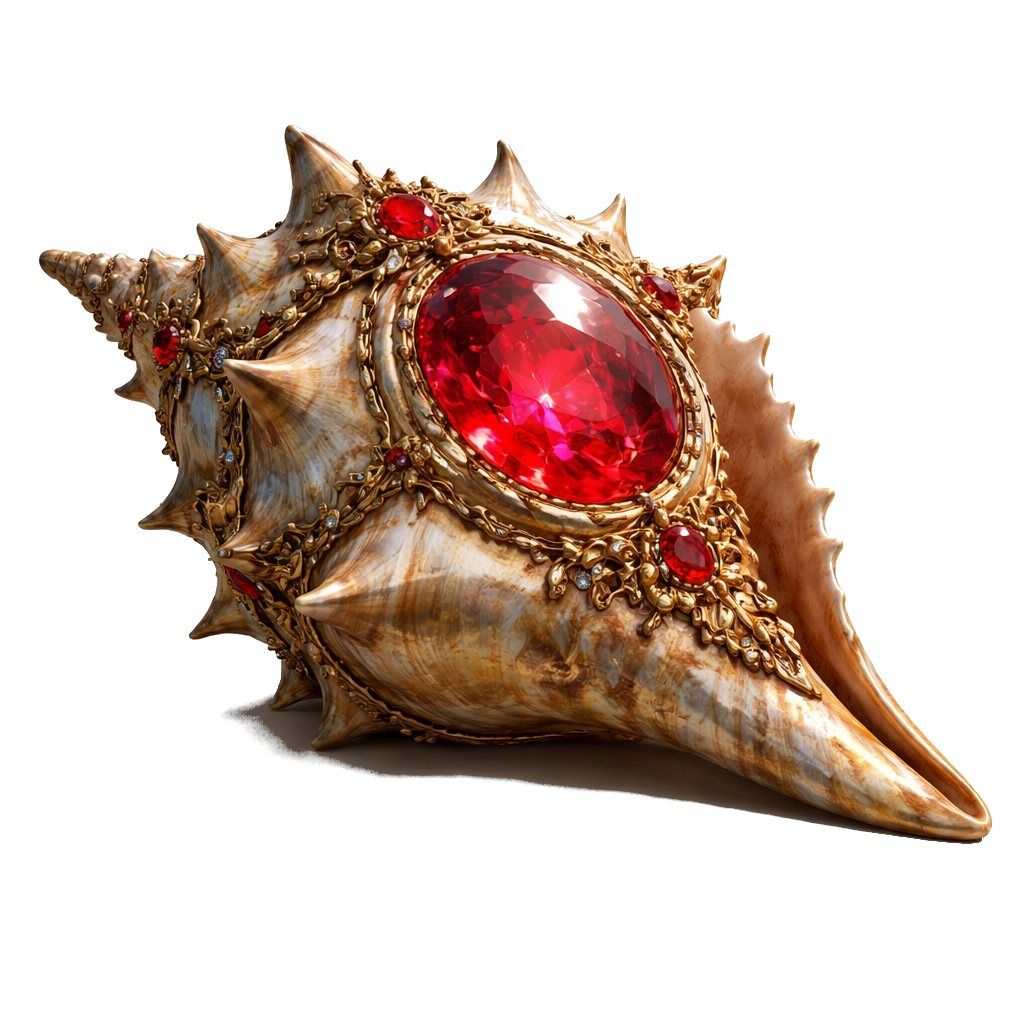
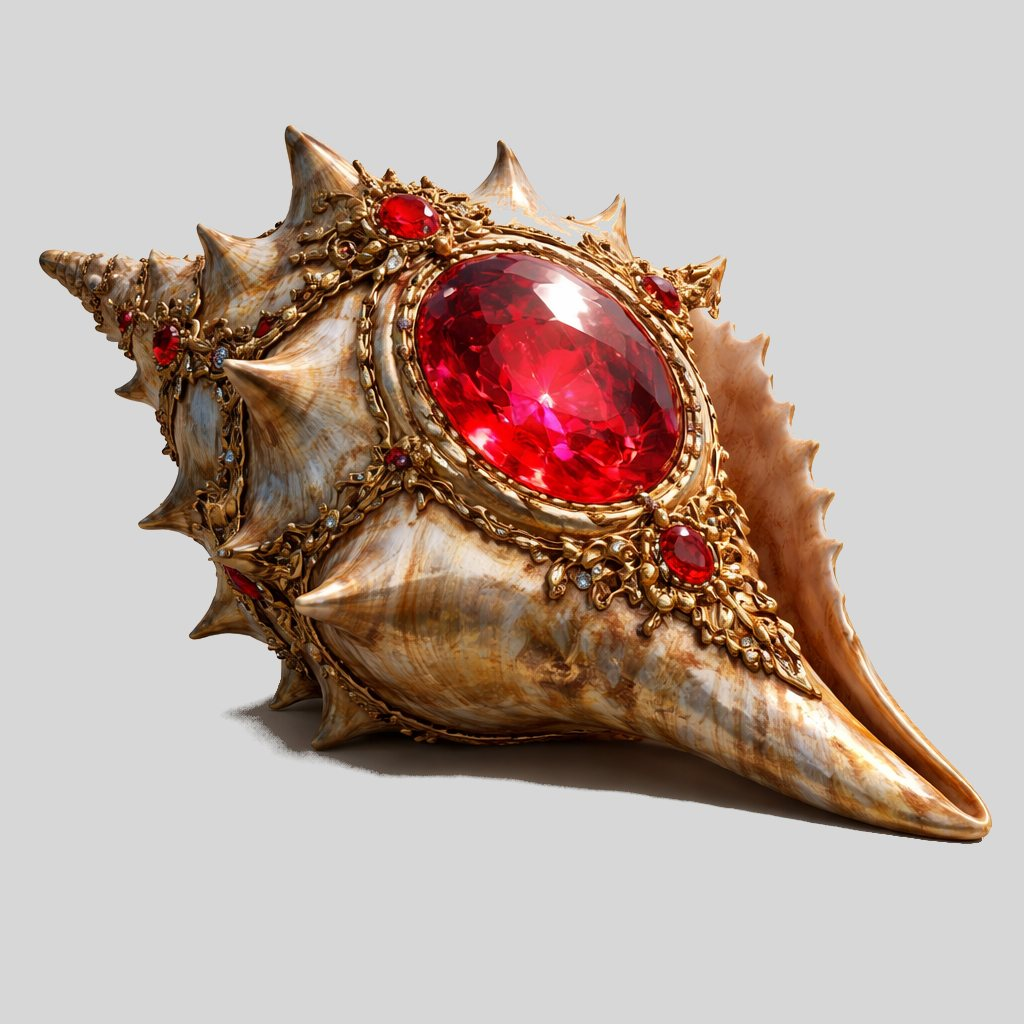
Images transparentes sur fond gris

diff --git a/journal-arc-1.html b/journal-arc-1.html
@@ -25,7 +25,7 @@
 <p class="arc-date">Automne 1002 CR</p><figure class="inline wide"><a href="img/inline-silenna.jpg?v=5eb2e386"><img src="img/inline-silenna.jpg?v=5eb2e386" alt="Silenna, la sorcière rouge" title="Silenna, la sorcière rouge" loading="lazy"></a><figcaption>Silenna, la sorcière rouge</figcaption></figure><p>Tout commence à <a class="auto" href="carte-bourg-preux.html">Bourg-Preux</a>. <a class="auto" href="heros-zolbrour.html">Zolbrour</a>, <a class="auto" href="heros-aldaron.html">Aldaron</a> et <a class="auto" href="heros-azog.html">Azog</a> rencontrent la sorcière rouge <a class="auto" href="pnj-silenna.html">Silenna</a>, qui les aide à terrasser une strige dans les quartiers Sud. Peu après, <a class="auto" href="heros-zolbrour.html">Zolbrour</a> quitte le groupe pour poursuivre d'autres chimères. <a class="auto" href="pnj-silenna.html">Silenna</a>, elle, vole la Conque de Khêl dans le <a class="auto" href="lieux-bp-temple-deesse-douce.html">temple de la Déesse Douce</a>. Cette conque avait servi à l'archonte <a class="auto" href="pnj-cloaphiles.html">Cloaphilès</a> pour ranimer une armée de morts, lors de la bataille de <a class="auto" href="carte-chrysophee.html">Chrysophée</a>.</p>
 <p>À l'automne 1002 CR, <a class="auto" href="heros-azog.html">Azog</a> et <a class="auto" href="heros-aldaron.html">Aldaron</a> se font un nom en ville. Pendant la fête du Bain de la Déesse, <a class="auto" href="pnj-spada-rapazzoni.html">Spada Rapazzoni</a>, fils du sénateur <a class="auto" href="pnj-guido-rapazzoni.html">Guido Rapazzoni</a> de <a class="auto" href="lieux-ciudalia.html">Ciudalia</a>, est enlevé par le maître-espion <a class="auto" href="pnj-rosso-dagarella.html">Rosso Dagarella</a> pour le compte du parti belliciste. Poursuivi par les héros et par le guet, <a class="auto" href="pnj-rosso-dagarella.html">Rosso Dagarella</a> se cache avec <a class="auto" href="pnj-spada-rapazzoni.html">Spada</a> dans une vinerie, où a lieu un combat épique. <a class="auto" href="pnj-spada-rapazzoni.html">Spada</a> est délivré, mais Rosso s'enfuit. En remerciement, <a class="auto" href="pnj-spada-rapazzoni.html">Spada</a> remet aux héros une lettre de recommandation auprès de son père.</p>
 <p>Puis, à la fin de l'automne, le Bailli <a class="auto" href="pnj-papelin.html">Grugeot Papelin</a> leur demande d'enquêter sur des brigands payés en dirhems de <a class="auto" href="lieux-ressine.html">Ressine</a> pour attaquer les marchands ciudaliens. Les héros tuent le corsaire <a class="auto" href="pnj-urion-bravache.html">Urion Bravache</a> et ses Écorcheurs, le brigand <a class="auto" href="pnj-chicot.html">Chicot l'Ébréché</a> et ses tire-laine, puis les rats-garous <a class="auto" href="pnj-carognet.html">Carognet</a> et <a class="auto" href="pnj-musard.html">Musard</a>. Grâce à eux, le guet arrête le flibustier <a class="auto" href="pnj-borel.html">Borel l'Écumeur</a>, qui est enfermé dans la prison de <a class="auto" href="carte-bourg-preux.html">Bourg-Preux</a>. La piste remonte jusqu'au <a class="auto" href="pnj-brancovan.html">Voïvode Brancovan</a> de <a class="auto" href="lieux-rourika.html">Rourika</a>.</p>
-<p>Les héros découvrent alors que <a class="auto" href="pnj-brancovan.html">Brancovan</a> a servi d'intermédiaire dans le vol de la Conque, et que le commanditaire est l'archonte <a class="auto" href="pnj-cloaphiles.html">Cloaphilès</a>. La Conque est retrouvée et rendue au <a class="auto" href="lieux-bp-temple-deesse-douce.html">temple de la Déesse Douce</a>. Mais son plus gros rubis a été retiré. <a class="badge" href="quetes-gemmes-wayland.html">⚑ Les quatre gemmes de Wayland</a></p><div class="strip"><figure class="inline"><a href="img/inline-conque.jpg?v=5307b0b9"><img src="img/thumb-inline-conque.jpg?v=fbccd53f" alt="La Conque de Khêl" title="La Conque de Khêl" loading="lazy"></a><figcaption>La Conque de Khêl</figcaption></figure></div>
+<p>Les héros découvrent alors que <a class="auto" href="pnj-brancovan.html">Brancovan</a> a servi d'intermédiaire dans le vol de la Conque, et que le commanditaire est l'archonte <a class="auto" href="pnj-cloaphiles.html">Cloaphilès</a>. La Conque est retrouvée et rendue au <a class="auto" href="lieux-bp-temple-deesse-douce.html">temple de la Déesse Douce</a>. Mais son plus gros rubis a été retiré. <a class="badge" href="quetes-gemmes-wayland.html">⚑ Les quatre gemmes de Wayland</a></p><div class="strip"><figure class="inline"><a href="img/inline-conque.jpg?v=afc272a0"><img src="img/thumb-inline-conque.jpg?v=5c4cca44" alt="La Conque de Khêl" title="La Conque de Khêl" loading="lazy"></a><figcaption>La Conque de Khêl</figcaption></figure></div>
 <nav class="prev-next"><a href="journal.html">← Journal</a><span></span><a href="journal-arc-2.html">Arc 2 : L&#x27;archonte Cloaphilès →</a></nav>
 </main>
 </body>

diff --git a/chronologie.html b/chronologie.html
@@ -82,7 +82,7 @@
 <p>L'ordre suit le résumé des sessions. Dates exactes inconnues, sauf indication.</p>
 <ol>
 <li><div class="tl-text"><a class="auto" href="heros-zolbrour.html">Zolbrour</a>, <a class="auto" href="heros-aldaron.html">Aldaron</a> et <a class="auto" href="heros-azog.html">Azog</a> rencontrent <a class="auto" href="pnj-silenna.html">Silenna</a> et tuent une strige à <a class="auto" href="carte-bourg-preux.html">Bourg-Preux</a>. <a class="auto" href="heros-zolbrour.html">Zolbrour</a> quitte le groupe.</div><div class="tl-side"><a class="tl-thumb" href="img/inline-silenna.jpg?v=5eb2e386" title="Silenna, la sorcière rouge"><img src="img/thumb-inline-silenna.jpg?v=a669fcf1" alt="Silenna, la sorcière rouge" loading="lazy"></a></div></li>
-<li><div class="tl-text"><a class="auto" href="pnj-silenna.html">Silenna</a> vole la Conque de Khêl dans le <a class="auto" href="lieux-bp-temple-deesse-douce.html">temple de la Déesse Douce</a>.</div><div class="tl-side"><a class="tl-thumb" href="img/inline-conque.jpg?v=5307b0b9" title="La Conque de Khêl"><img src="img/thumb-inline-conque.jpg?v=fbccd53f" alt="La Conque de Khêl" loading="lazy"></a></div></li>
+<li><div class="tl-text"><a class="auto" href="pnj-silenna.html">Silenna</a> vole la Conque de Khêl dans le <a class="auto" href="lieux-bp-temple-deesse-douce.html">temple de la Déesse Douce</a>.</div><div class="tl-side"><a class="tl-thumb" href="img/inline-conque.jpg?v=afc272a0" title="La Conque de Khêl"><img src="img/thumb-inline-conque.jpg?v=5c4cca44" alt="La Conque de Khêl" loading="lazy"></a></div></li>
 <li><div class="tl-text">Automne 1002 CR : « La gloire de la République ». Pendant la fête du Bain de la Déesse, <a class="auto" href="heros-azog.html">Azog</a> et <a class="auto" href="heros-aldaron.html">Aldaron</a> délivrent <a class="auto" href="pnj-spada-rapazzoni.html">Spada Rapazzoni</a>, enlevé par le maître-espion <a class="auto" href="pnj-rosso-dagarella.html">Rosso Dagarella</a> pour le compte du parti belliciste de <a class="auto" href="lieux-ciudalia.html">Ciudalia</a>. <a class="auto" href="pnj-spada-rapazzoni.html">Spada</a> leur donne une lettre de recommandation auprès de son père. Poursuivi par les héros et par le guet, <a class="auto" href="pnj-rosso-dagarella.html">Rosso Dagarella</a> se cache avec <a class="auto" href="pnj-spada-rapazzoni.html">Spada</a> dans une vinerie : combat épique. <a class="auto" href="pnj-rosso-dagarella.html">Rosso Dagarella</a> s'enfuit.</div><div class="tl-side"></div></li>
 <li><div class="tl-text">Fin de l'automne 1002 CR : « La couleur de l'argent ». Pour le Bailli <a class="auto" href="pnj-papelin.html">Grugeot Papelin</a>, <a class="auto" href="heros-azog.html">Azog</a> et <a class="auto" href="heros-aldaron.html">Aldaron</a> enquêtent sur des brigands payés en dirhems de <a class="auto" href="lieux-ressine.html">Ressine</a>, et remontent jusqu'au <a class="auto" href="pnj-brancovan.html">Voïvode Brancovan</a> de <a class="auto" href="lieux-rourika.html">Rourika</a>. Ils tuent <a class="auto" href="pnj-urion-bravache.html">Urion Bravache</a> et ses Écorcheurs, <a class="auto" href="pnj-chicot.html">Chicot l'Ébréché</a> et ses tire-laine, puis les rats-garous <a class="auto" href="pnj-carognet.html">Carognet</a> et <a class="auto" href="pnj-musard.html">Musard</a>. Grâce à eux, le guet arrête <a class="auto" href="pnj-borel.html">Borel l'Écumeur</a> : il est dans la prison de <a class="auto" href="carte-bourg-preux.html">Bourg-Preux</a>.</div><div class="tl-side"><a class="tl-thumb" href="img/inline-voivode-brancovan-de-rourika.jpg?v=98332c4b" title="Le Voïvode Brancovan"><img src="img/thumb-inline-voivode-brancovan-de-rourika.jpg?v=e10887ed" alt="Le Voïvode Brancovan" loading="lazy"></a></div></li>
 <li><div class="tl-text">Les héros découvrent le rôle de <a class="auto" href="pnj-brancovan.html">Brancovan</a> et de <a class="auto" href="pnj-cloaphiles.html">Cloaphilès</a> dans le vol de la Conque. La Conque est rendue, sans son plus gros rubis : <a class="auto" href="pnj-silenna.html">Silenna</a> l'a retiré.</div><div class="tl-side"></div></li>

diff --git a/quetes.html b/quetes.html
@@ -25,7 +25,7 @@
 <ul class=cards>
 <li><a class="with-thumb" href="quetes-objets-voles-basilio.html"><img class="mini" src="img/thumb-inline-basilio-smemorato.jpg?v=d9de9a56" alt="" loading="lazy"><span class="who">Les objets volés par Basilio<small>en cours</small></span></a></li>
 <li><a class="with-thumb" href="quetes-aldryx-coeur-du-monde.html"><img class="mini" src="img/thumb-inline-aldryx.jpg?v=ce13c36e" alt="" loading="lazy"><span class="who">La galerie vers le cœur du monde<small>en cours</small></span></a></li>
-<li><a class="with-thumb" href="quetes-gemmes-wayland.html"><img class="mini" src="img/thumb-inline-conque.jpg?v=fbccd53f" alt="" loading="lazy"><span class="who">Les quatre gemmes de Wayland<small>en cours (2 sur 4)</small></span></a></li>
+<li><a class="with-thumb" href="quetes-gemmes-wayland.html"><img class="mini" src="img/thumb-inline-conque.jpg?v=5c4cca44" alt="" loading="lazy"><span class="who">Les quatre gemmes de Wayland<small>en cours (2 sur 4)</small></span></a></li>
 </ul>
 <h2>À surveiller</h2>
 <ul class=cards>
@@ -42,7 +42,7 @@
 <li><a class="with-thumb" href="journal.html"><span class="mini date letter">🦇</span><span class="who">La strige de Bourg-Preux<small>strige tuée, Zolbrour quitte le groupe</small></span></a></li>
 <li><a class="with-thumb" href="journal.html"><span class="mini date letter">🗡</span><span class="who">La gloire de la République (Spada Rapazzoni)<small>Spada délivré, lettre de recommandation</small></span></a></li>
 <li><a class="with-thumb" href="journal.html"><span class="mini date letter">💰</span><span class="who">La couleur de l&#x27;argent (brigands payés en dirhems)<small>piste remontée jusqu&#x27;au Voïvode Brancovan</small></span></a></li>
-<li><a class="with-thumb" href="journal.html"><img class="mini" src="img/thumb-inline-conque.jpg?v=fbccd53f" alt="" loading="lazy"><span class="who">La Conque de Khêl et l&#x27;archonte Cloaphilès<small>Conque rendue, Silenna et Cloaphilès tués, rubis et auréole pris</small></span></a></li>
+<li><a class="with-thumb" href="journal.html"><img class="mini" src="img/thumb-inline-conque.jpg?v=5c4cca44" alt="" loading="lazy"><span class="who">La Conque de Khêl et l&#x27;archonte Cloaphilès<small>Conque rendue, Silenna et Cloaphilès tués, rubis et auréole pris</small></span></a></li>
 <li><a class="with-thumb" href="journal.html"><img class="mini" src="img/thumb-inline-armee-des-morts.jpg?v=eb25ff89" alt="" loading="lazy"><span class="who">Les Landes Grises et l&#x27;armée des morts<small>armée des morts suit Azog, puis reçoit les rites funéraires</small></span></a></li>
 <li><a class="with-thumb" href="journal.html"><img class="mini" src="img/thumb-inline-voivode-brancovan-de-rourika.jpg?v=e10887ed" alt="" loading="lazy"><span class="who">Le Voïvode, les Ouromans et le Kiriadum<small>couronne prise, rituel fait, famine évitée, Brancovan commis de cuisine</small></span></a></li>
 <li><a class="with-thumb" href="quetes-domaine-garches.html"><img class="mini" src="img/thumb-inline-chateau-de-garche.jpg?v=f68170ef" alt="" loading="lazy"><span class="who">Le domaine de Garches et les Landes Grises<small>souveraineté sur les Landes Grises reconnue, château restauré, impôt de 25 % et milice d&#x27;Alistair</small></span></a></li>

diff --git a/index.html b/index.html
@@ -24,7 +24,7 @@
 <figure class="inline banner"><a href="pnj.html#les-heros"><img src="img/inline-les-pj-2.jpg?v=2ba44bd5" alt="Les aventuriers, au pastel" title="Les aventuriers, au pastel" loading="lazy"></a><figcaption>Les aventuriers, au pastel</figcaption></figure>
 <p>Ce site raconte une campagne de <strong>jeu de rôle sur table</strong>, qui se déroule dans le Vieux Royaume, l'univers de fiction créé par l'écrivain <a href="sources.html#l-auteur">Jean-Philippe Jaworski</a>. Elle part des documents de jeu que l'auteur a publiés <a href="https://couroberon.com/site2/tag/vieux-royaume/">sur son site</a> pour ce jeu de rôle. Le reste, ce sont nos propres aventures.</p><ul class="cards home-cards">
 <li><a class="with-thumb" href="journal.html"><img class="mini" src="img/thumb-inline-fete-forraine.jpg?v=49c8def3" alt="" loading="lazy"><span class="who">Journal<small>Le récit de nos sessions, arc par arc</small></span></a></li>
-<li><a class="with-thumb" href="quetes.html"><img class="mini" src="img/thumb-inline-conque.jpg?v=fbccd53f" alt="" loading="lazy"><span class="who">Quêtes<small>Les quêtes ouvertes, à surveiller et terminées</small></span></a></li>
+<li><a class="with-thumb" href="quetes.html"><img class="mini" src="img/thumb-inline-conque.jpg?v=5c4cca44" alt="" loading="lazy"><span class="who">Quêtes<small>Les quêtes ouvertes, à surveiller et terminées</small></span></a></li>
 <li><a class="with-thumb" href="pnj.html"><img class="mini" src="img/thumb-inline-les-hersos-apres-avoir-recuperer-l-armee-des-morts.jpg?v=fb983128" alt="" loading="lazy"><span class="who">Personnages<small>Les héros et les personnages rencontrés</small></span></a></li>
 <li><a class="with-thumb" href="carte.html"><img class="mini" src="img/thumb-inline-vieux-royaume.jpg?v=c9d7b25b" alt="" loading="lazy"><span class="who">Carte<small>Le Vieux Royaume, ses villes et ses lieux</small></span></a></li>
 <li><a class="with-thumb" href="histoire.html"><img class="mini" src="img/thumb-inline-01-forge-des-gemmes.jpg?v=b6db068b" alt="" loading="lazy"><span class="who">Histoire<small>L&#x27;histoire, les mythes, les religions et les langues</small></span></a></li>
